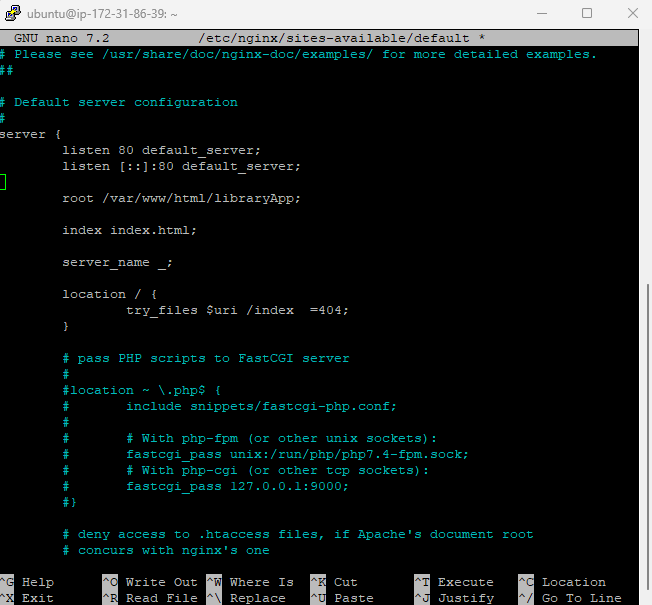
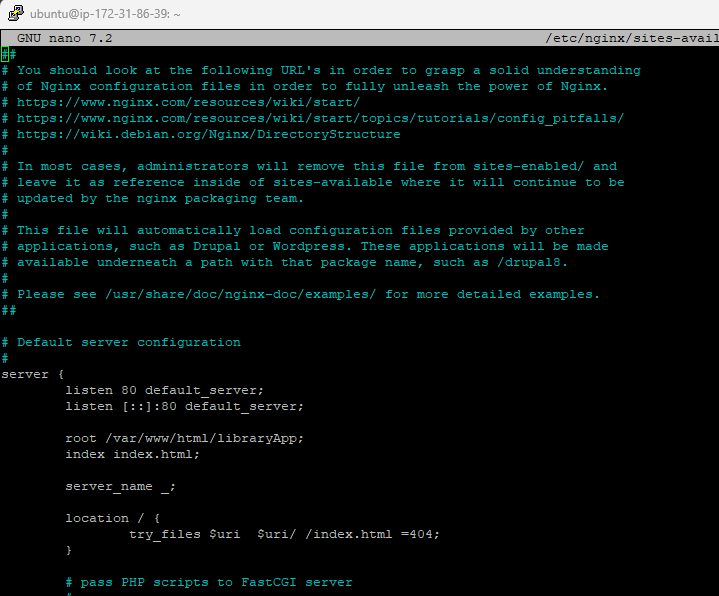
Doc Fix Update

diff --git a/README.md b/README.md
@@ -111,13 +111,13 @@ Once inside this file we will be editing it to add the following lines:
     index index.html;
 
     location / {
-        try_files $uri /index.html;
+        try_files $uri $uri/ /index.html =404;
     }
 ```
 
 This tells NGIX to look for the index inside the folder we created, then we need to make sure that our Deployment phase copies the build content inside that folder.
 
-*Note that these settings are already in the file, you migh need to look for them.*
+*Note that these settings are already in the file, you might need to look for them.*
 ![NGINX Configuration](doc/images/console-3.png)
 
 Save the file by clicking `CTRL + X` then pressing `Y` and then enter.
@@ -326,11 +326,38 @@ version: 0.0
 files:
   - source: /
     destination: /var/www/html/libraryApp
+
+hooks:
+  BeforeDeploy:
+    - location: scripts/before_deploy
+      timeout: 60
+      runas: ubuntu
 ```
 
 This simple command tells the Deploy stage to put the built result in `/var/www/html/libraryApp` (Where NGIGX expects the app to be).
 
-Make sure to include this file in the repository.
+---
+
+### Bug fix for Deployment
+For some reason, while I developed this project my Deploy phase in the pipeline always failed because it expected a `before-deploy` script, even if we never specified it and I could not got my head around it.
+
+So as a last restort fix I gave the Deploy what it wanted, a 'before-deploy' script, this does nothing more than echoing something in the console, but this way I avoid the error of 'not having a script' that prevented me from deploying the app.
+
+So to implement this fix you already set half of it above (The hooks part wasn't orignally planned).
+
+So now create a folder in the root of the repository called `scripts` and inside of it create a `before_deploy.sh` and put the following inside:
+
+```BASH
+echo "Before Deploy. . ."
+exit 0
+```
+
+Now the deploy phase gets what it 'expects' for some reason and it allow the deployment.
+
+
+---
+
+Make sure to include these files in the repository.
 
 Now in step 7 verify that all our changes are setup properly.
 
@@ -456,3 +483,13 @@ Now go ahead and make some changes in the repository so the pipeline picks it up
 ![Pipeline Flow](doc/images/pipeline-process-2.png)
 
 Now our pipeline works correctly and it has been deployed to our EC2 Instance.
+
+![Pipeline Flow Success](doc/images/pipeline-process-3.png)
+
+And if we go to the EC2 instance URL we will be able to see our website.
+
+![Website Deployed](doc/images/website-1.png)
+
+# Continuous Deployment
+Now lets add another book to the repository and wait for it to be atuomatically deployed by our pipeline.
+
